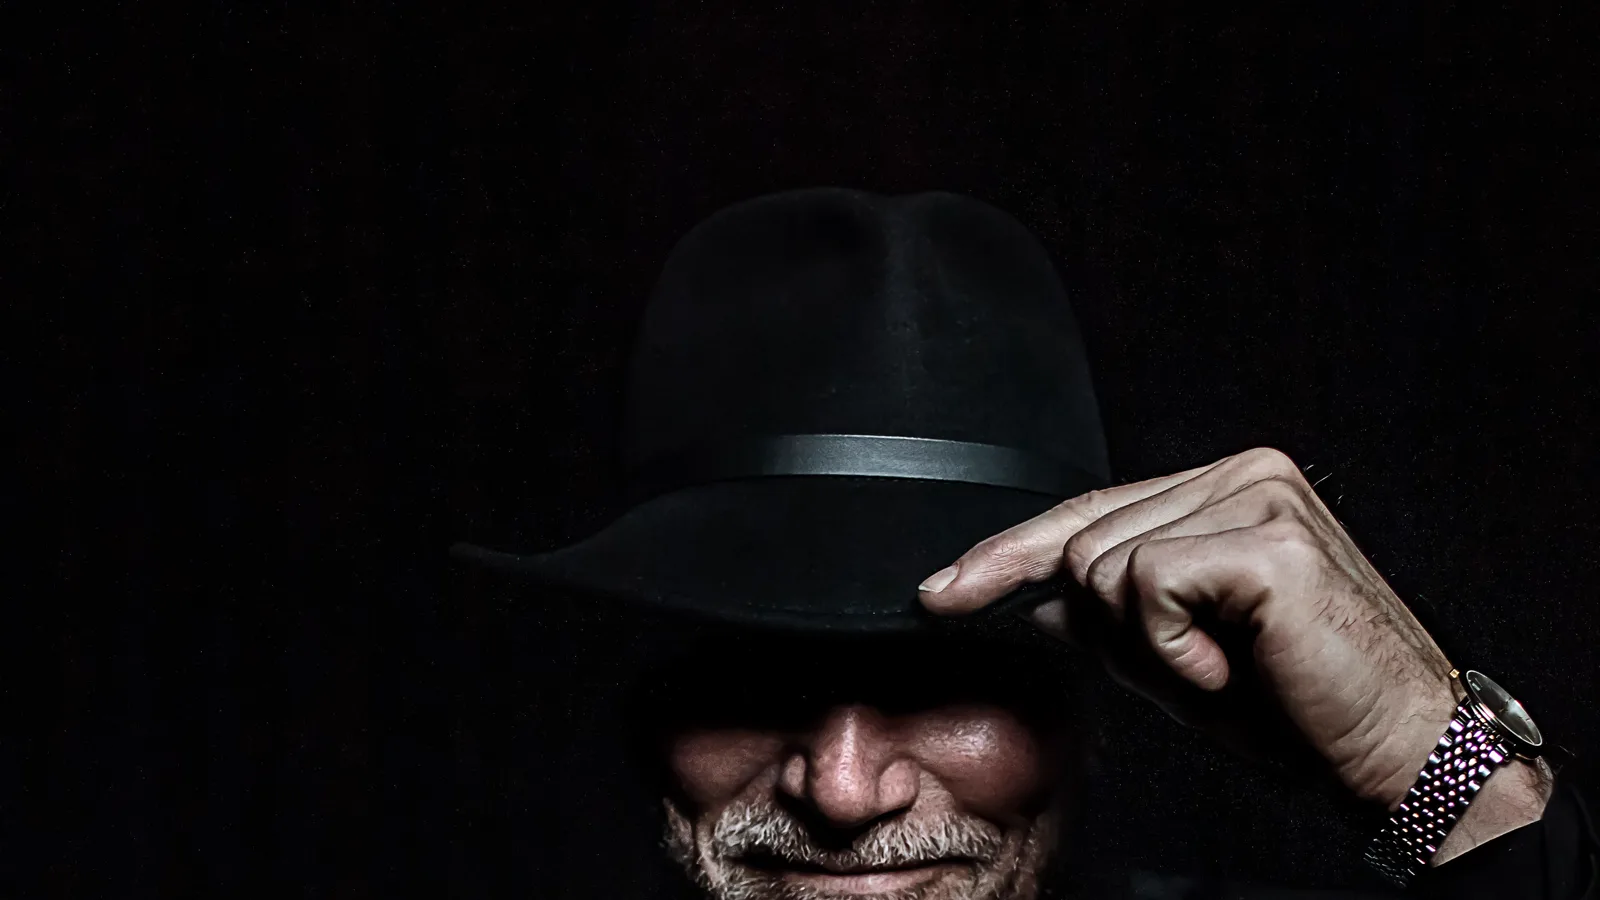
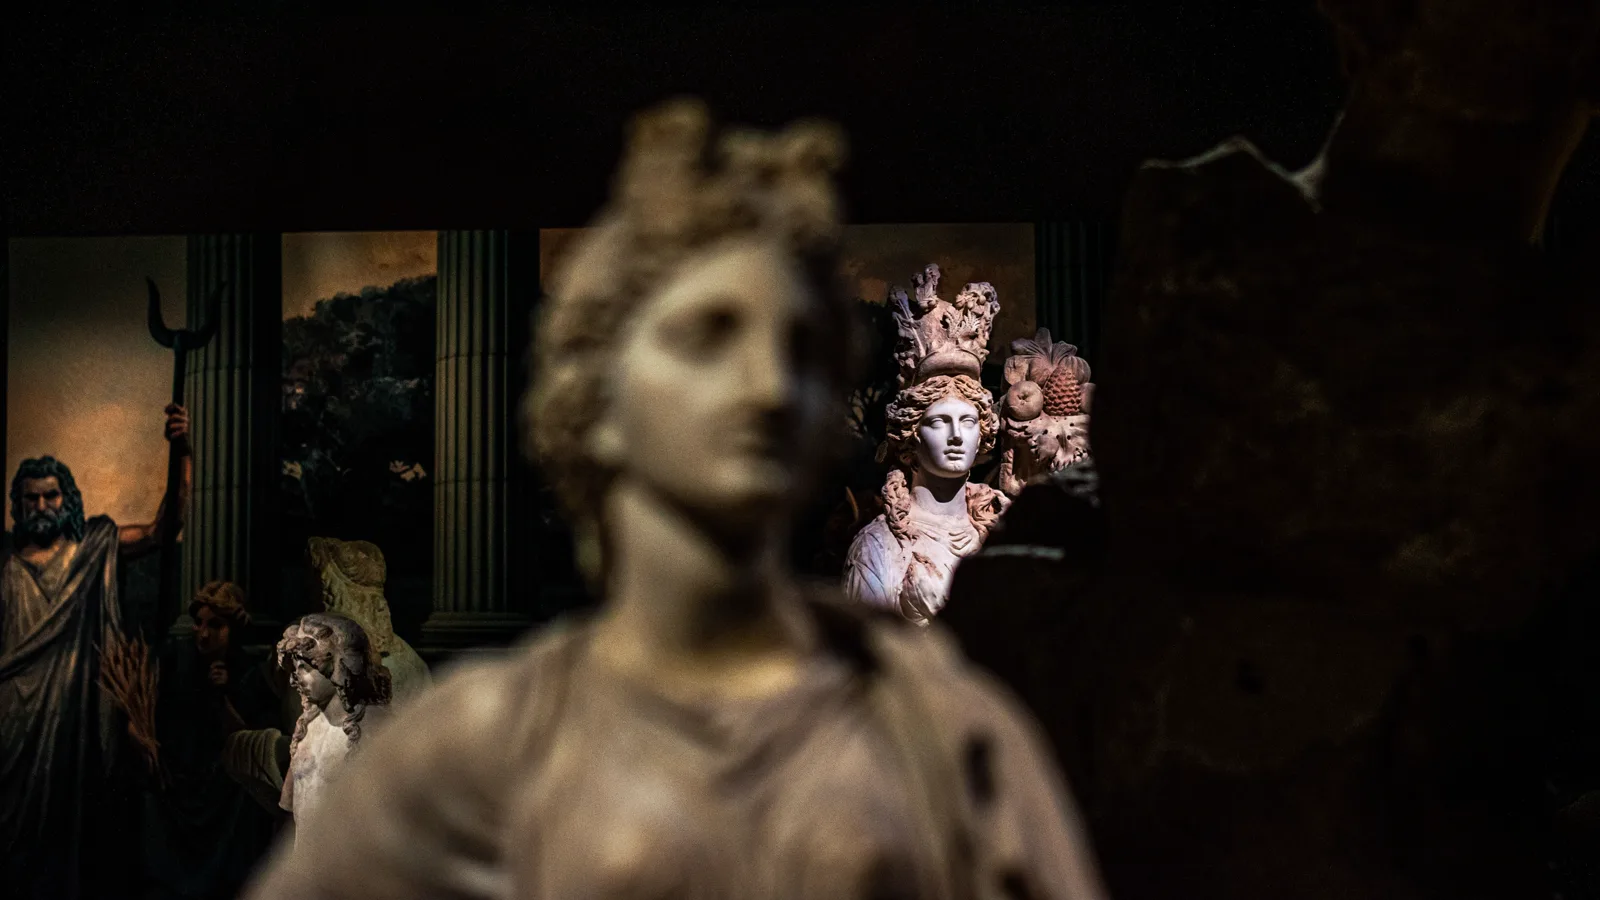
Fix Cheich hero image — replace void-heavy portrait crop with a full-frame gallery hero
The gentleman-collector portrait left ~90% black void when forced into the 16:9
hero frame (subject sat only in the bottom sliver). Swapped to a native-16:9
dark museum-sculpture image that fills the frame edge-to-edge — cinematic, and
on-theme: the Cheich sold as museum-grade art ("wearable sculpture"). Updated
alt text on the article hero and both homepage spotlight cards.

diff --git a/cartier-cheich-record.html b/cartier-cheich-record.html
@@ -125,7 +125,7 @@
 
 <figure style="width:100%;max-width:1040px;margin:0 auto 8px;padding:0 24px;">
   <div style="position:relative;width:100%;aspect-ratio:16/9;overflow:hidden;border:1px solid rgba(201,168,76,0.18);">
-    <img src="cheich-hero.webp" width="1600" height="900" alt="A distinguished older man in a black hat and evening dress, face half in shadow, a watch just visible at his wrist — the discreet world of the private collector" style="position:absolute;inset:0;width:100%;height:100%;object-fit:cover;display:block;" loading="eager" fetchpriority="high">
+    <img src="cheich-hero.webp" width="1600" height="900" alt="Classical marble sculptures lit in a dark museum gallery — in 2026 the Cartier Cheich is treated less like a watch than a work of art" style="position:absolute;inset:0;width:100%;height:100%;object-fit:cover;display:block;" loading="eager" fetchpriority="high">
     <div style="position:absolute;inset:0;background:linear-gradient(to top,rgba(5,5,5,0.55),transparent 55%);pointer-events:none;"></div>
   </div>
 </figure>

diff --git a/index.html b/index.html
@@ -733,7 +733,7 @@ document.querySelectorAll('a[href="#film"]').forEach(function(a){a.addEventListe
   <a class="spot-card reveal" href="cartier-cheich-record.html">
     <div class="spot-img">
       <span class="spot-flag">Auction Record</span>
-      <img src="cheich-hero.webp" alt="A distinguished collector in a black hat and evening dress, face half in shadow — the discreet world where a $3.4 million Cartier changes hands" loading="lazy" width="1600" height="900">
+      <img src="cheich-hero.webp" alt="Classical marble sculptures in a dark gallery — a Cartier watch sold as museum-grade art for $3.4 million" loading="lazy" width="1600" height="900">
     </div>
     <div class="spot-body">
       <p class="spot-cat">The Object of Desire &middot; 2026</p>
